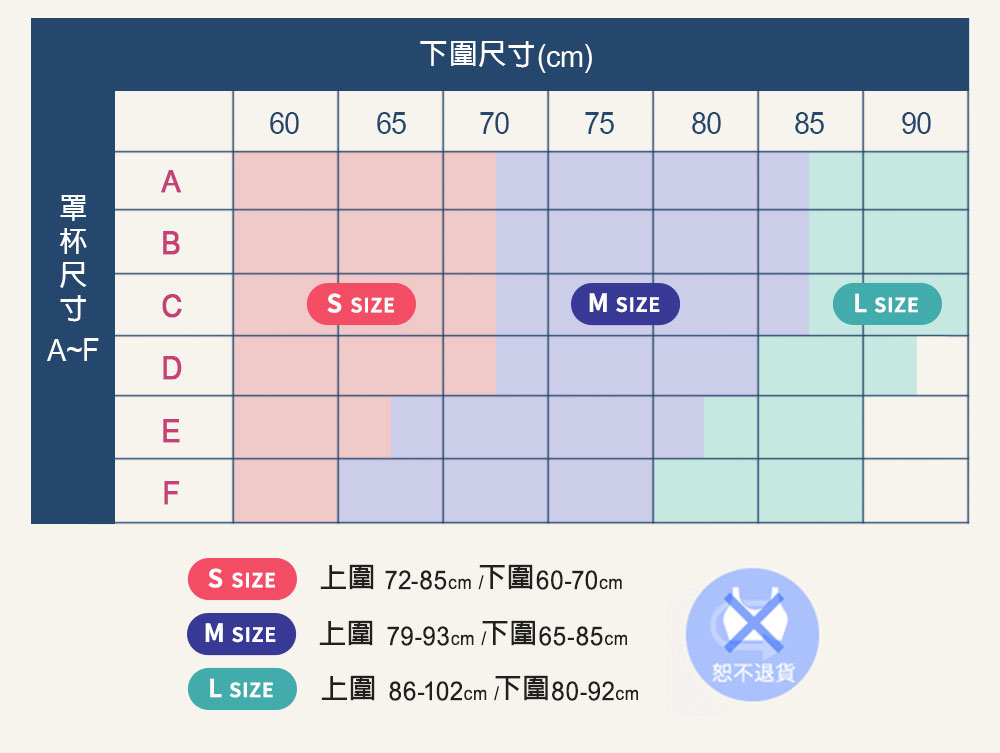
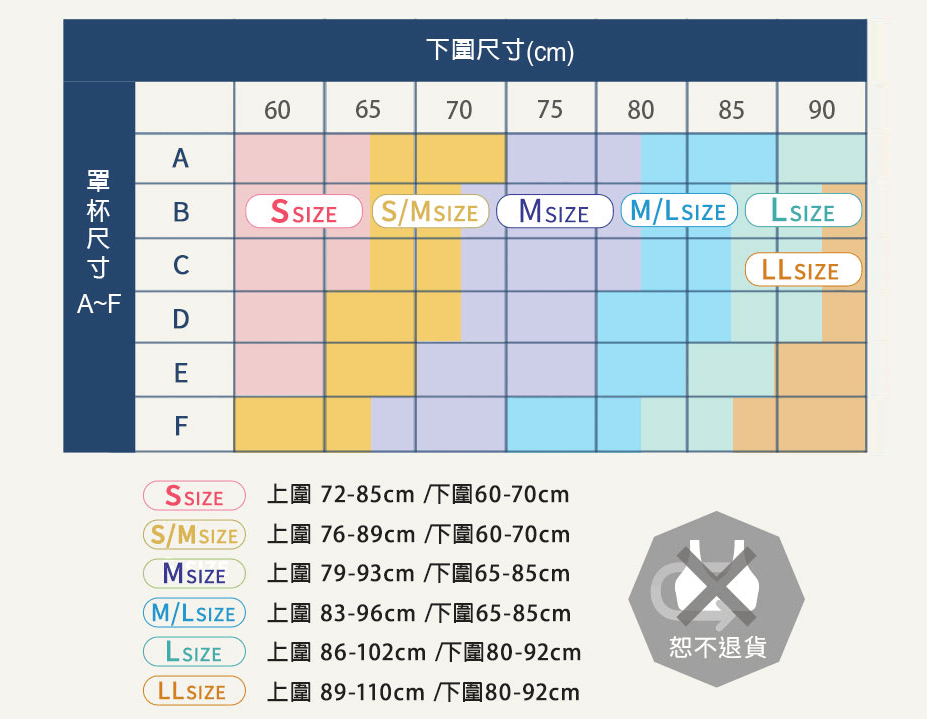
20191224_new size & shopping cart big revision

diff --git a/index.html b/index.html
@@ -582,8 +582,11 @@
                   </th>
                   <td>
                     S Size(上圍 72-85cm /下圍 60-70cm)<br>
+                    S/M Size(上圍 76-89cm /下圍 60-70cm)<br>
                     M Size(上圍 79-93cm /下圍 65-85cm)<br>
-                    L Size(上圍 86-102cm/下圍 80-92cm)
+                    M/L Size(上圍 83-96cm /下圍 65-85cm)<br>
+                    L Size(上圍 86-102cm/下圍 80-92cm)<br>
+                    LL Size(上圍 89-110cm/下圍 80-92cm)
                   </td>
                 </tr>
                 <tr>
@@ -625,15 +628,15 @@
           <div class="PC">
             <img data-src="images/16_size_01.png" class="d-flex mx-auto lozad" width=1000px alt="">
             <img data-src="images/16_size_02.png" class="d-flex mx-auto lozad" width=1000px alt="">
-            <img data-src="images/16_size_03.png" class="d-flex mx-auto lozad" width=1000px alt="">
+            <img data-src="images/16_size_03.jpg" class="d-flex mx-auto lozad" width=1000px alt="">
           </div>
-          <div class="mobile ">
-            <img data-src="images/16_size_01.png" class="d-flex" width=100% alt="" class="lozad">
-            <img data-src="images/16_size_02.png" class="d-flex" width=100% alt="" class="lozad">
-            <img data-src="images/16_size_03.png" class="d-flex" width=100% alt="" class="lozad">
+          <div class="mobile">
+            <img data-src="images/16_size_01.png" class="d-flex lozad" width=100% alt="">
+            <img data-src="images/16_size_02.png" class="d-flex lozad" width=100% alt="">
+            <img data-src="images/16_size_03.jpg" class="d-flex lozad" width=100% alt="">
           </div>
         </section>
-        <section class="sns_btn">
+        <section class="sns_btn" style="background-color: #F7F4ED;">
           <ul>
             <li><a href="https://www.facebook.com/viage.tw/" target="blank"><img data-src="images/s_fb.png" alt=""
                   class="lozad"></a></li>
